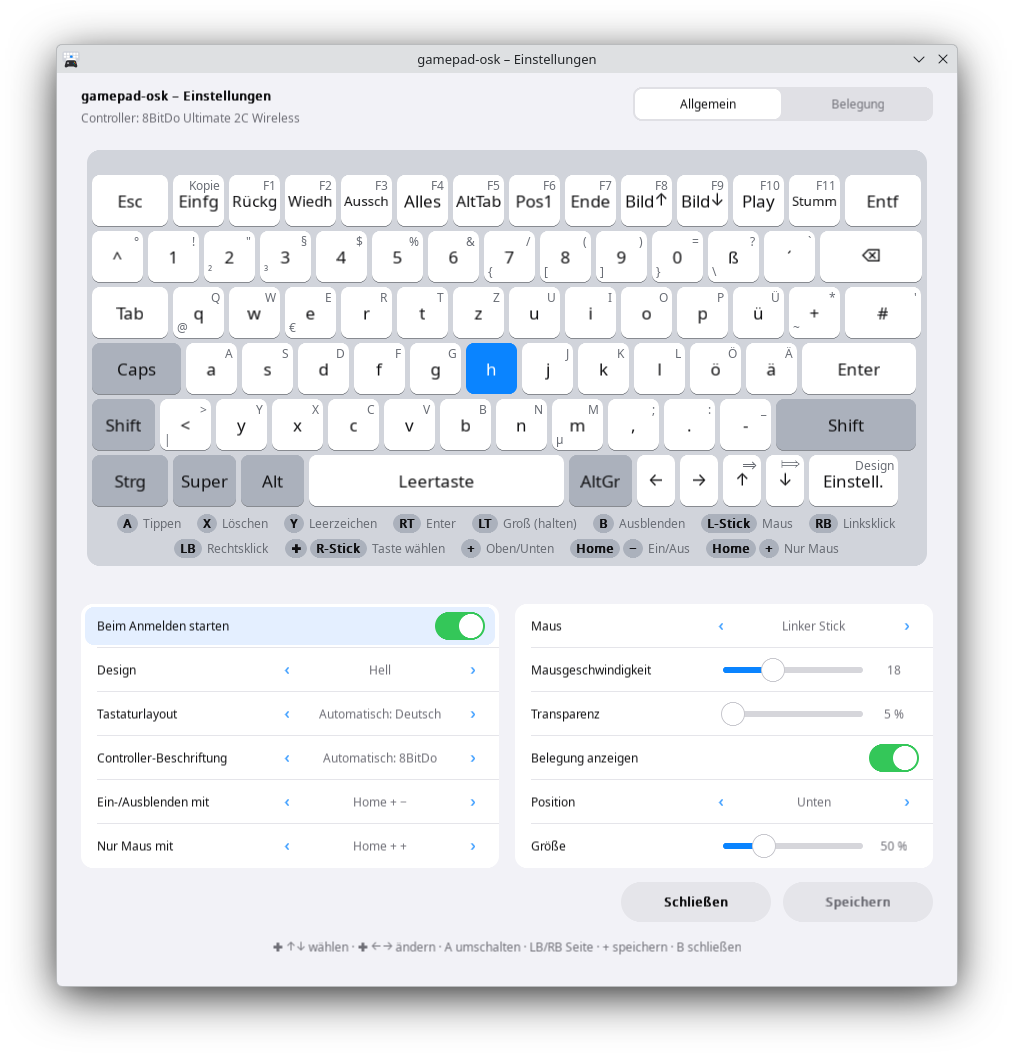
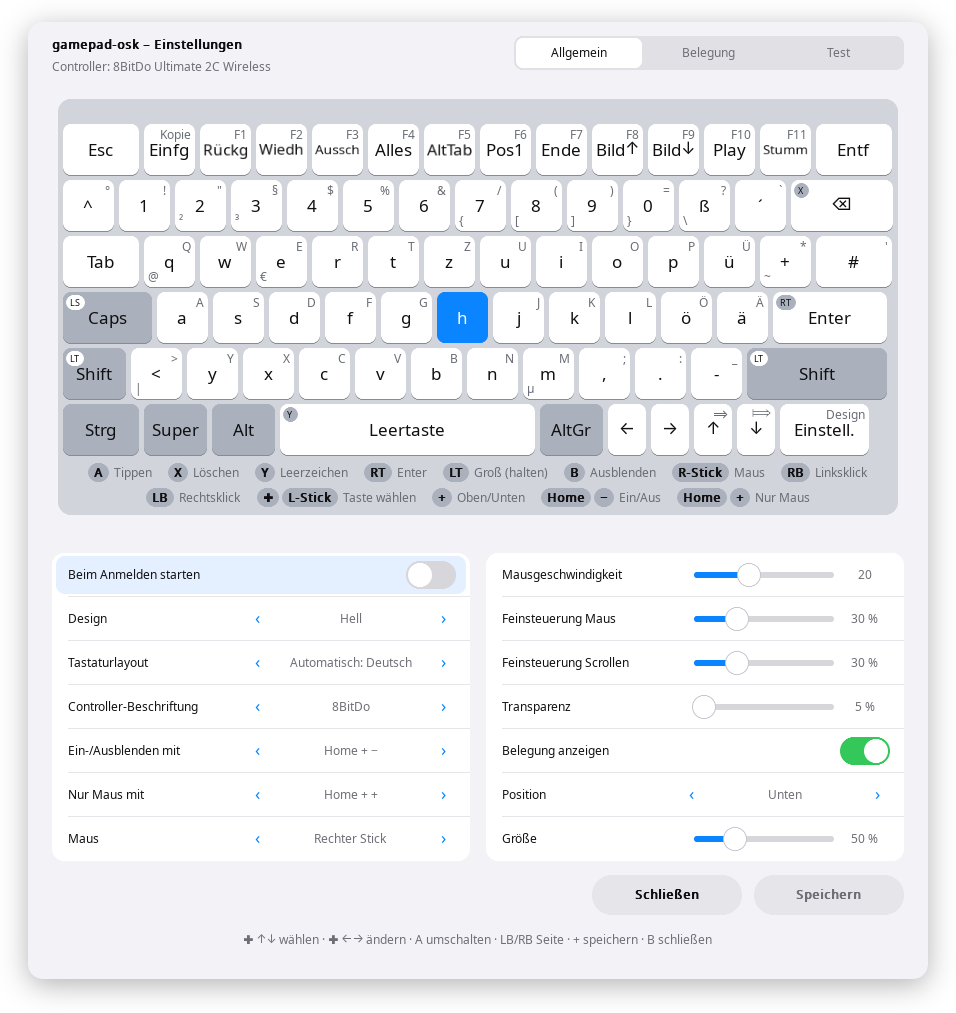
gamepad-osk: Screenshots Einstellungen, Mausmodus und Test erneuert

diff --git a/_posts/2026-11-15-gamepad-osk-mit-dem-controller-tippen.md b/_posts/2026-11-15-gamepad-osk-mit-dem-controller-tippen.md
@@ -95,7 +95,7 @@ Bedienbar mit Controller, Maus oder Tastatur, oben eine Vorschau.
 <figure class="abb klein">
   <a href="/assets/2026-11-15-gamepad-osk-mit-dem-controller-tippen/04-einstellungen.png">
     <img src="/assets/2026-11-15-gamepad-osk-mit-dem-controller-tippen/04-einstellungen.png"
-         alt="Einstellungsfenster mit den Reitern Allgemein und Belegung: oben die Vorschau der hellen Tastatur mit Belegungsleiste, darunter zwei Spalten mit Beim Anmelden starten, Design, Tastaturlayout, Controller-Beschriftung, Ein-/Ausblenden mit, Nur Maus mit, Maus, Mausgeschwindigkeit, Transparenz, Belegung anzeigen, Position und Größe, unten Schließen und Speichern">
+         alt="Einstellungsfenster mit den Reitern Allgemein und Belegung: oben die Vorschau der hellen Tastatur mit Belegungsleiste, darunter zwei Spalten mit Beim Anmelden starten, Design, Tastaturlayout, Controller-Beschriftung, Ein-/Ausblenden mit, Nur Maus mit, Maus, Mausgeschwindigkeit, Feinsteuerung Maus, Feinsteuerung Scrollen, Transparenz, Belegung anzeigen, Position und Größe, unten Schließen und Speichern">
   </a>
   <figcaption>Alles an einem Ort, mit Vorschau.</figcaption>
 </figure>
@@ -114,7 +114,7 @@ scrollt, B beendet.
 <figure class="abb klein">
   <a href="/assets/2026-11-15-gamepad-osk-mit-dem-controller-tippen/05-mausmodus.png">
     <img src="/assets/2026-11-15-gamepad-osk-mit-dem-controller-tippen/05-mausmodus.png"
-         alt="Kleine abgerundete Leiste am unteren Bildschirmrand mit blauem Maus-Symbol und A Klick, LB Rechtsklick, R-Stick Scrollen, B Beenden">
+         alt="Kleine abgerundete Leiste am unteren Bildschirmrand mit blauem Maus-Symbol und A Klick, LB Rechtsklick, L-Stick Scrollen, B Beenden">
   </a>
   <figcaption>Statt der Tastatur nur ein kleines Symbol.</figcaption>
 </figure>
